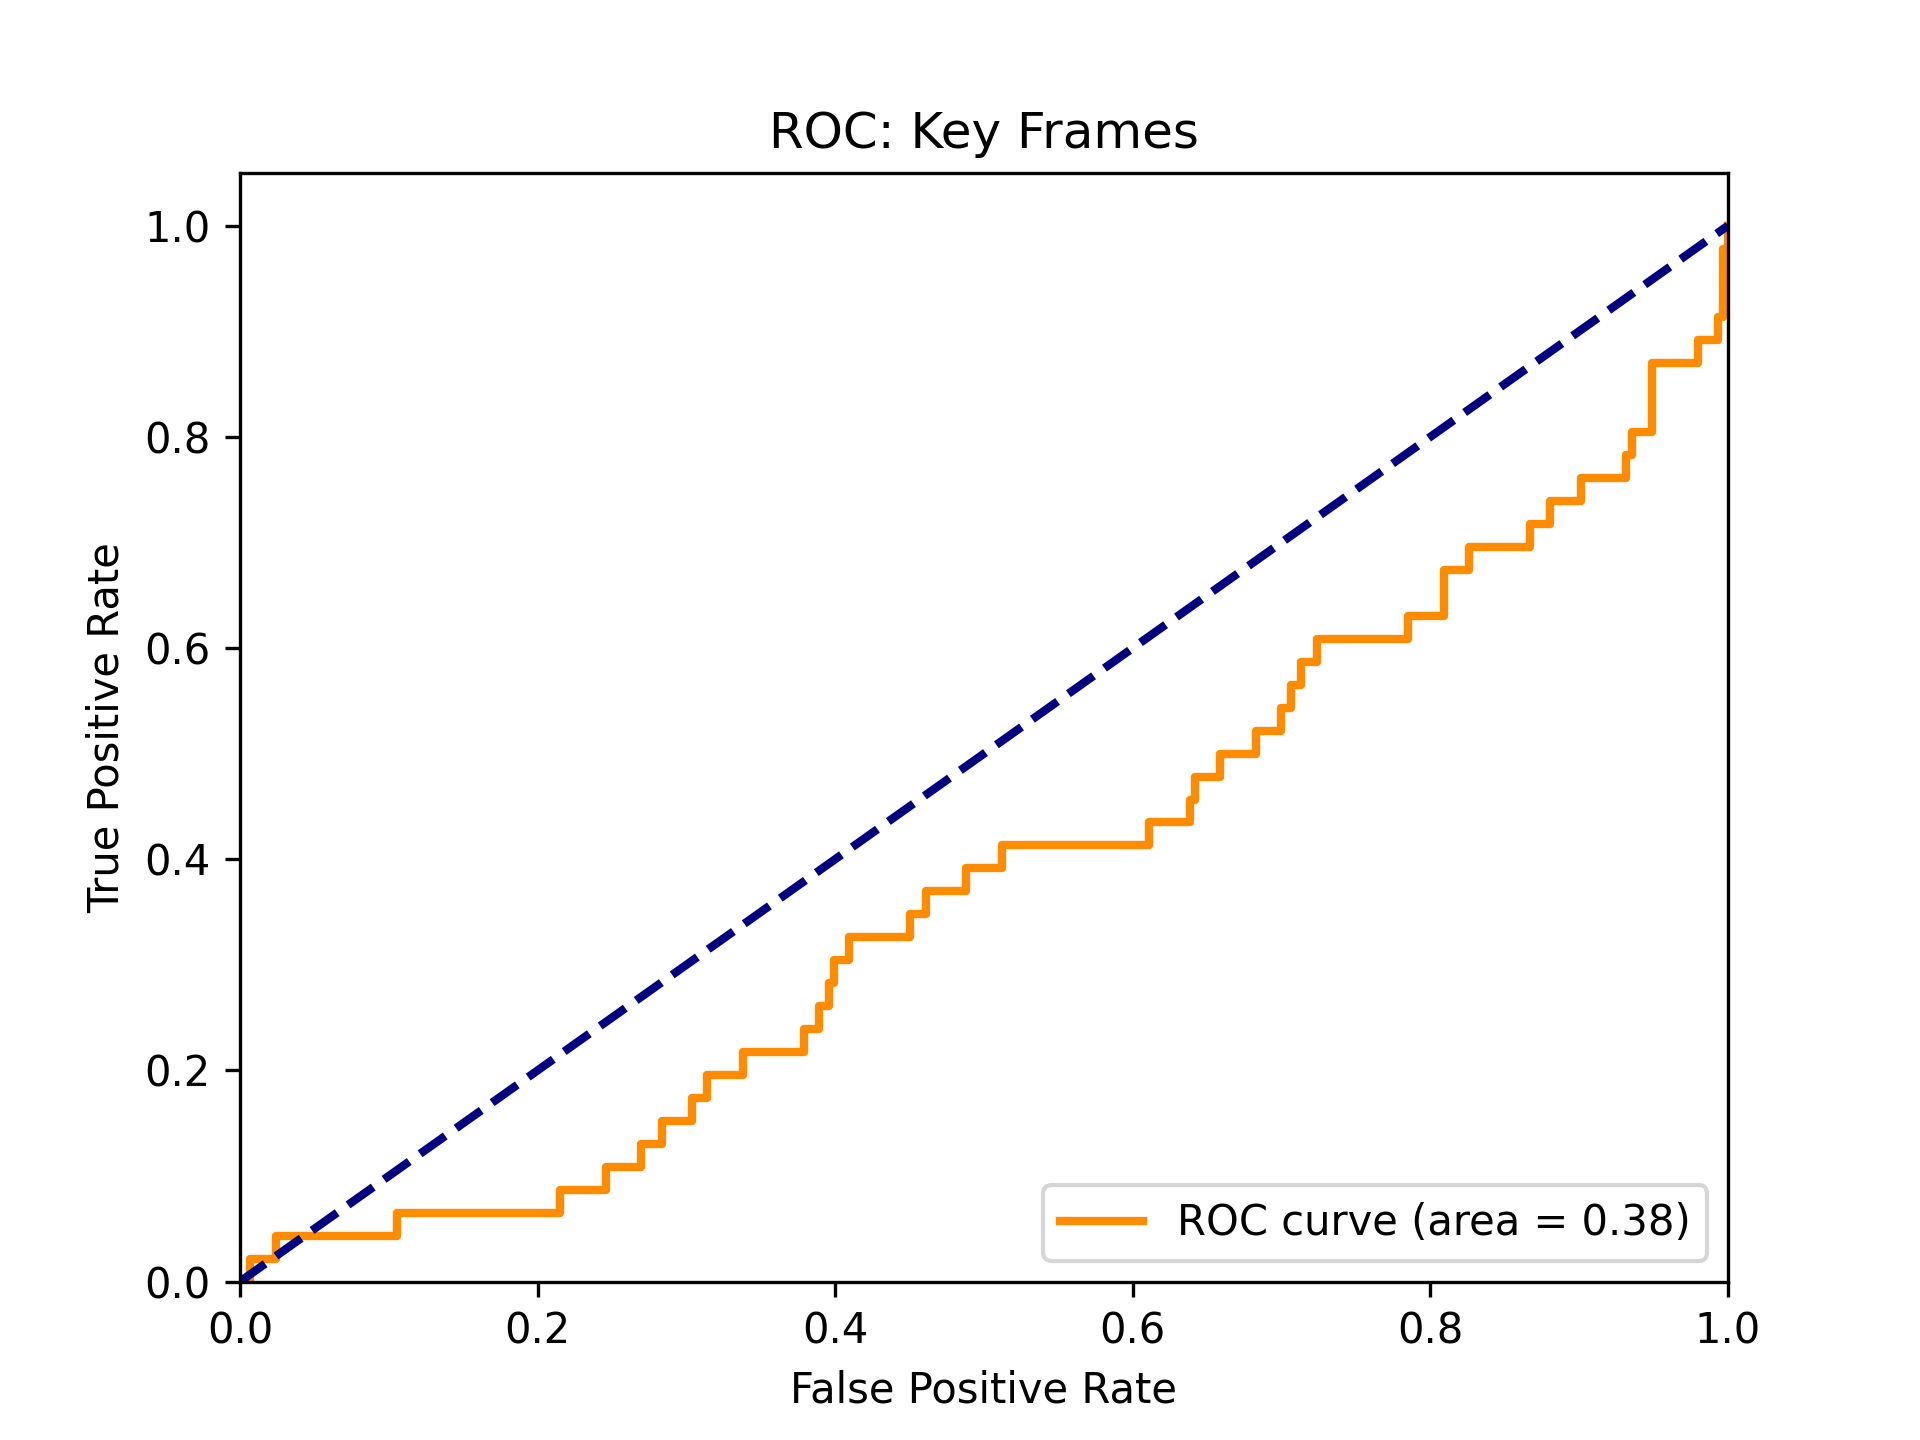
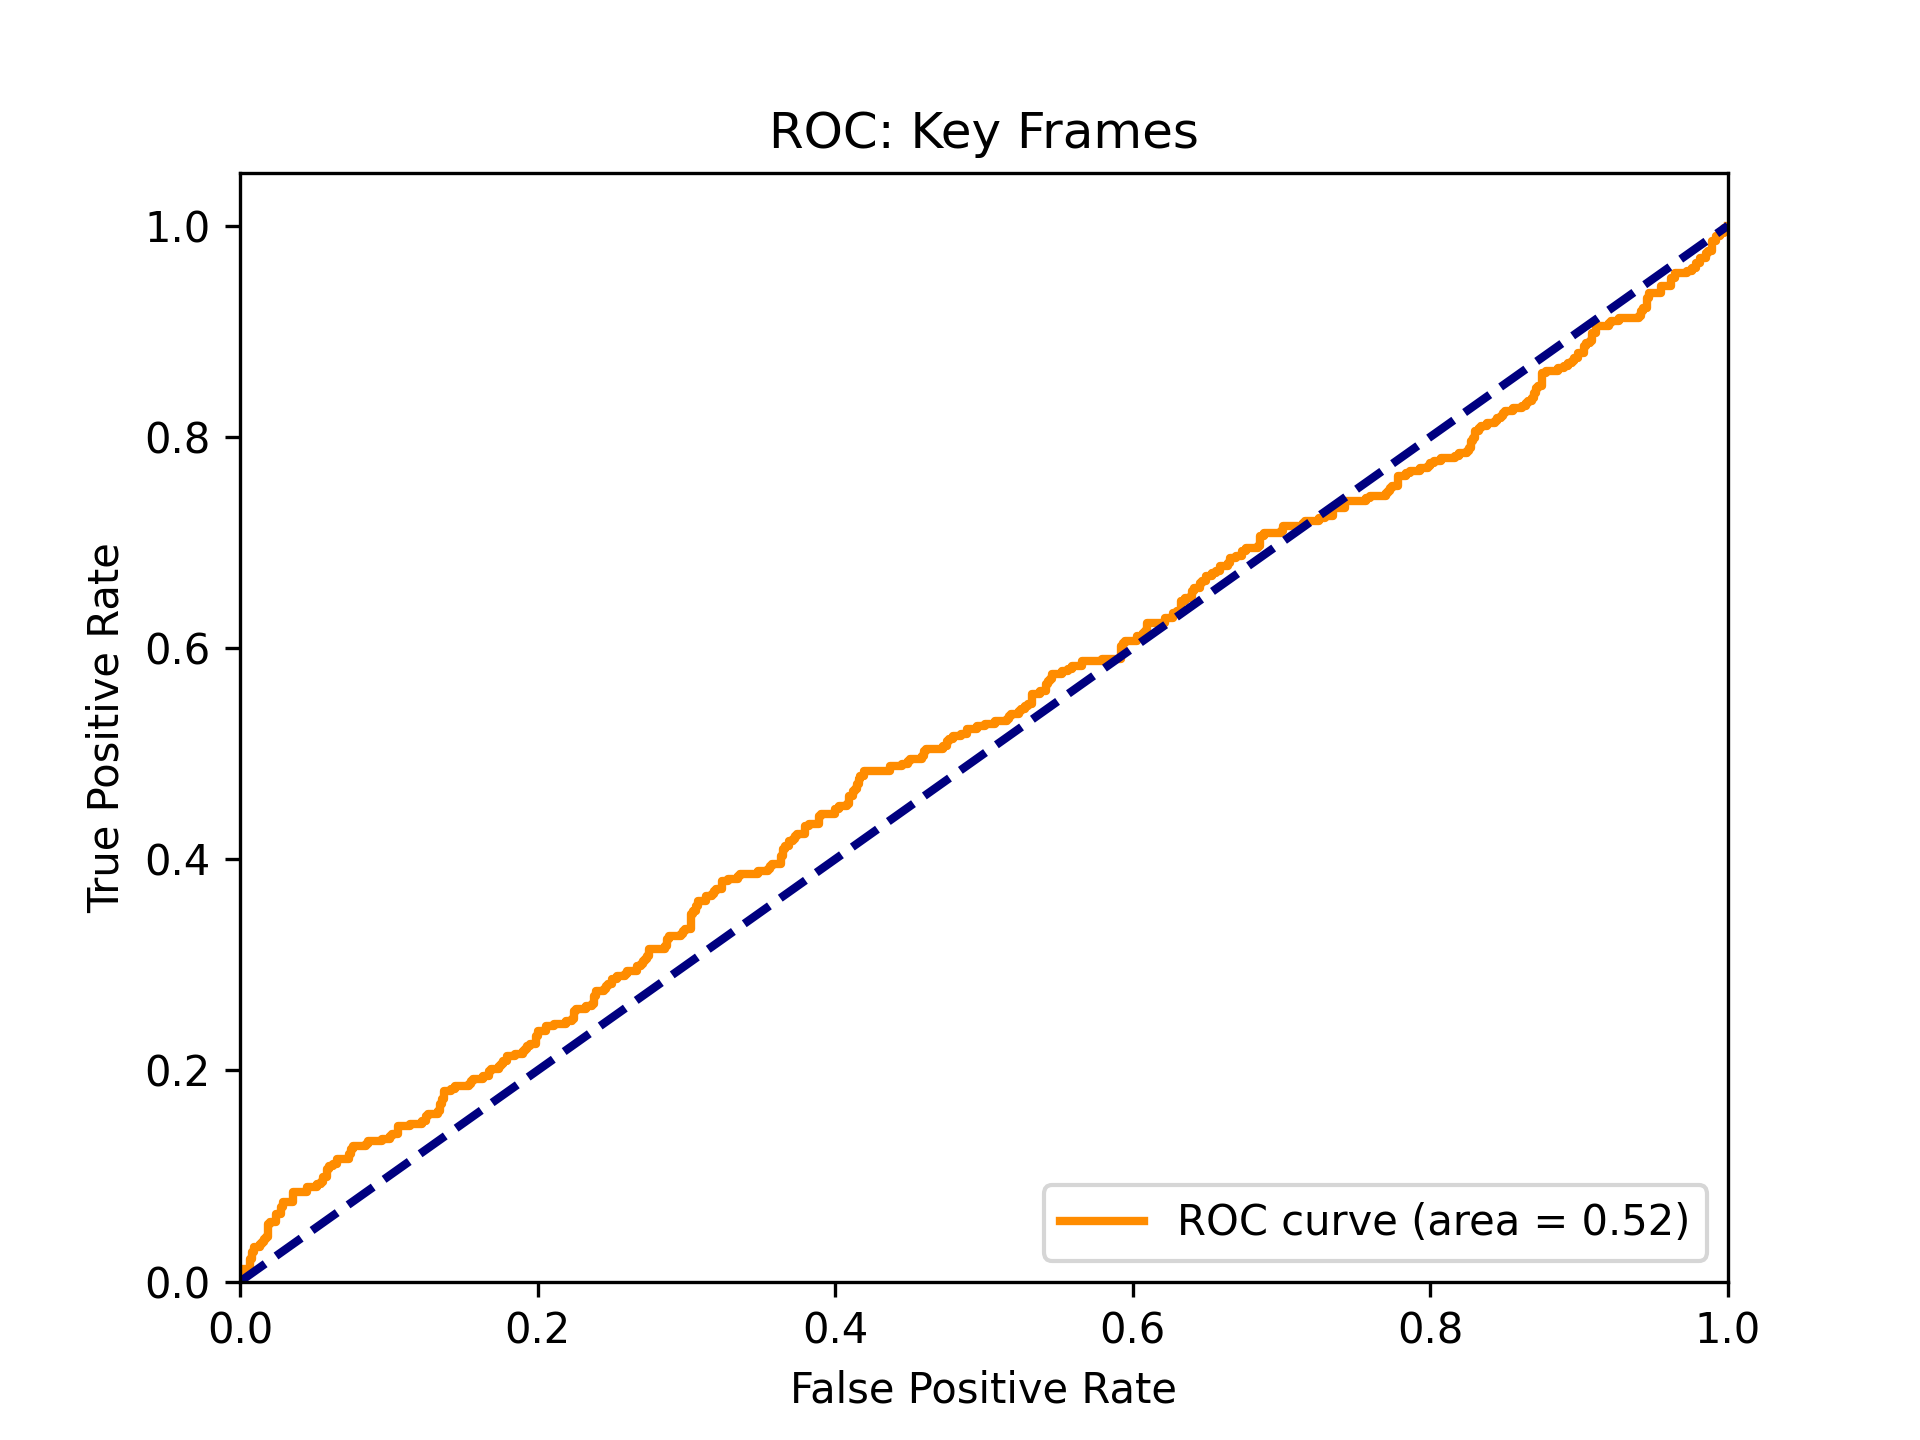
fixes bug with only key frames inference for obj-shadow classification

diff --git a/object_shadow/projective-geometry/test.py b/object_shadow/projective-geometry/test.py
@@ -127,7 +127,7 @@ if __name__ == "__main__":
             if args.only_key_frames:
                 valid_frame_ids = []
                 for k in sorted(vid_key_frames_dict.keys()):
-                    key_frame = vid_key_frames_dict[k]
+                    key_frame = vid_key_frames_dict[k]["key_frame"]
                     if key_frame in vid_obj_shadow_valid_dict["valid_ids"]:
                         valid_frame_ids.append(key_frame)
                     for detail_frame in vid_key_frames_dict[k]["detail_frames"]:
